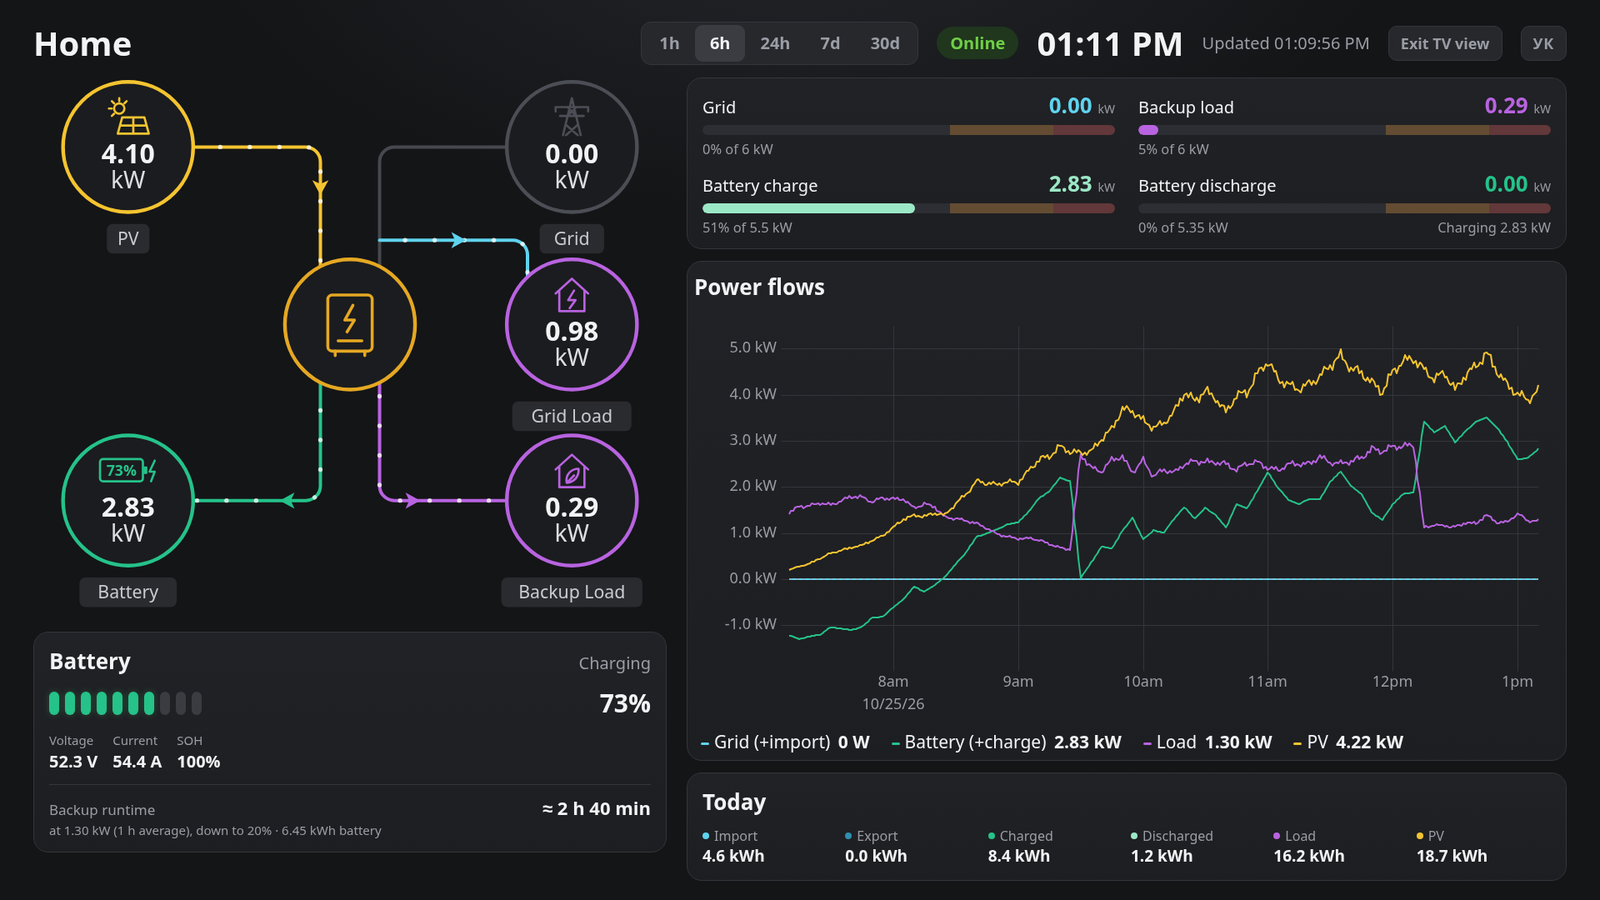
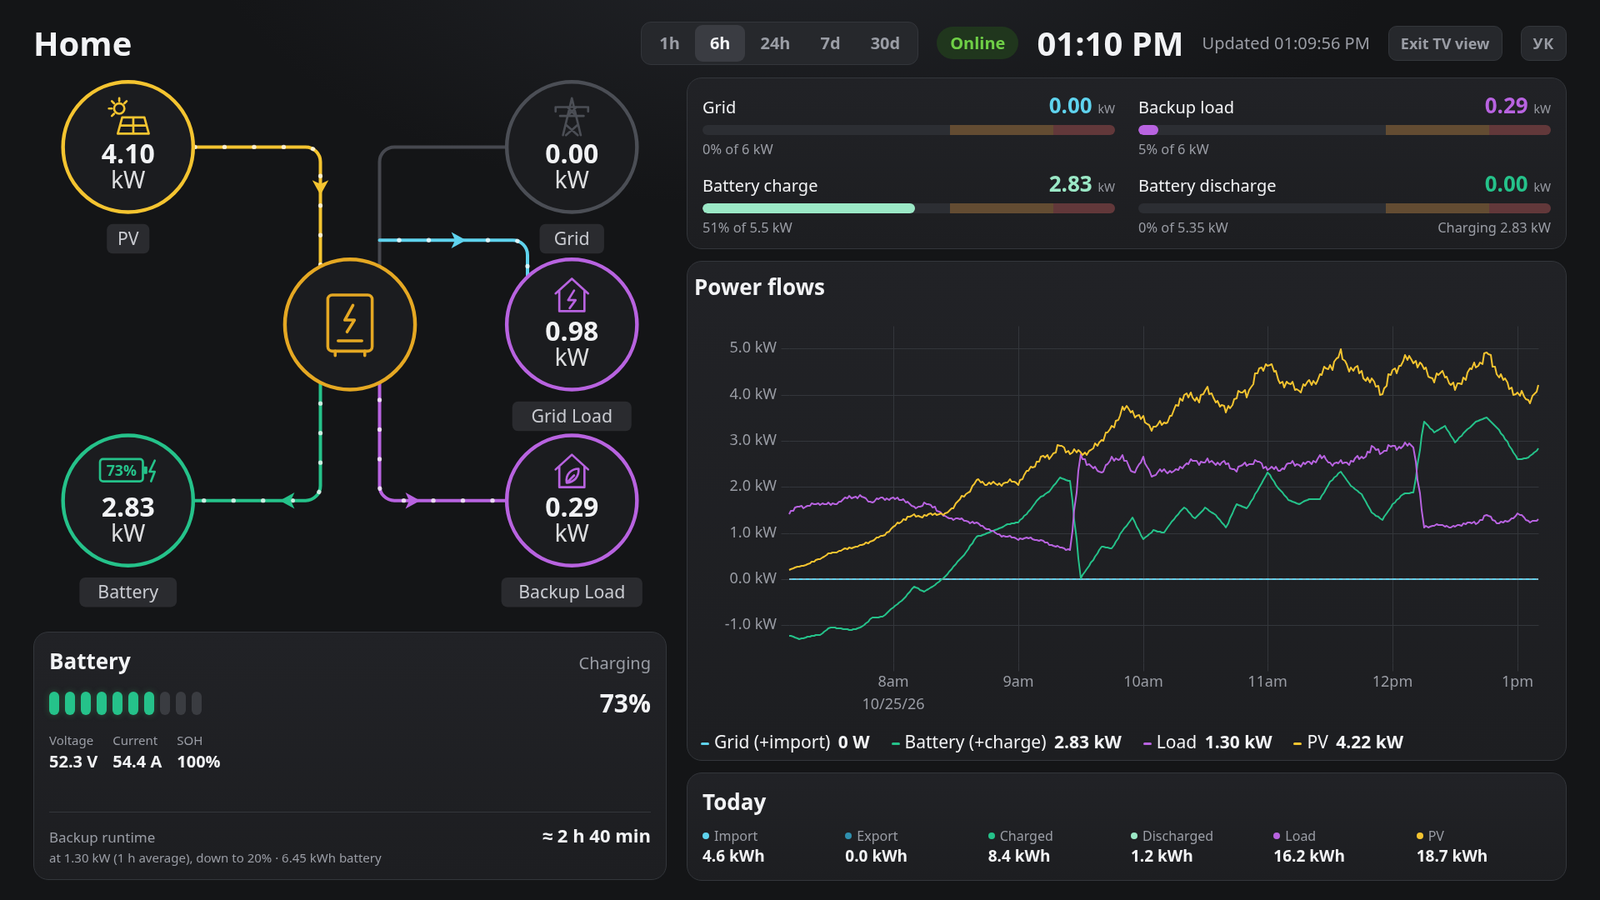
TV view: the Battery card now ends on the same line as the Today card

Changed region(s): [[0.0312, 0.8711, 0.25, 0.9644], [0.3438, 0.8711, 0.4062, 0.9333], [0.6875, 0.0311, 0.7188, 0.0622]]

diff --git a/web/frontend/src/styles.css b/web/frontend/src/styles.css
@@ -517,6 +517,10 @@ html.tv-mode, html.tv-mode body { overflow: hidden; height: 100%; font-size: 20p
 .tv-stage .card h2 { font-size: 1.3rem; }
 .tv-grid { display: grid; grid-template-columns: 760px minmax(0, 1fr); gap: 24px; flex: 1; min-height: 0; }
 .tv-grid .tv-flow { max-width: 710px; }
+/* the left column ends on the same line as the right one: the Battery card takes the leftover height and keeps its runtime row at the bottom */
+.tv-grid .battery-card { flex: 1; display: flex; flex-direction: column; }
+.tv-grid .battery-card .mini { margin-bottom: 14px; }
+.tv-grid .battery-card .runtime { margin-top: auto; }
 .tv-top .lang-switch { border: 1px solid var(--c-border); background: var(--c-surface2); border-radius: 10px; padding: 8px 14px; font-size: 0.9rem; color: var(--c-muted); }
 .lang-switch { letter-spacing: 0.04em; }
 
